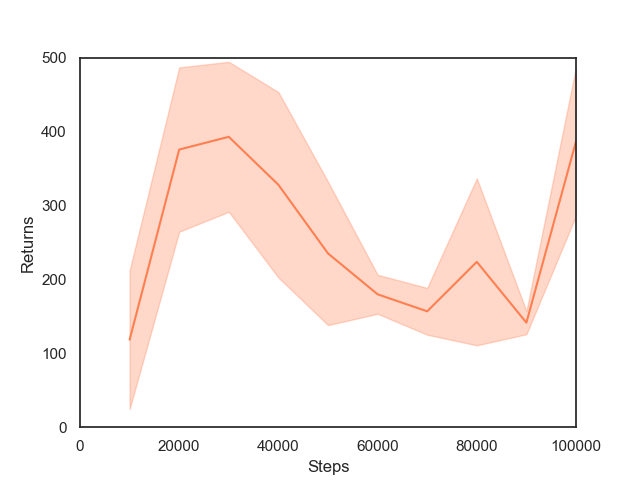
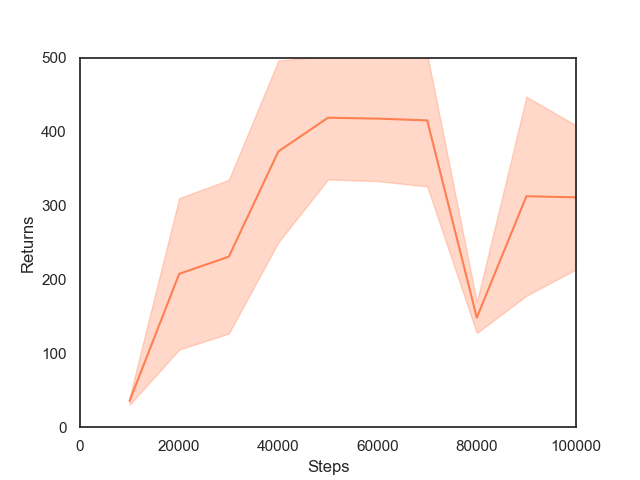
Incorporate terminal signal into AIRL

Changed region(s): [[0.1875, 0.125, 0.9062, 0.8438]]

diff --git a/training.py b/training.py
@@ -77,8 +77,8 @@ def adversarial_imitation_update(algorithm, agent, discriminator, expert_traject
 
   # Iterate over mininum of expert and policy data
   for expert_transition, policy_transition in zip(expert_dataloader, policy_dataloader):
-    expert_state, expert_action, expert_next_state = expert_transition['states'], expert_transition['actions'], expert_transition['next_states']
-    policy_state, policy_action, policy_next_state = policy_transition['states'], policy_transition['actions'], policy_transition['next_states']
+    expert_state, expert_action, expert_next_state, expert_terminal = expert_transition['states'], expert_transition['actions'], expert_transition['next_states'], expert_transition['terminals']
+    policy_state, policy_action, policy_next_state, policy_terminal = policy_transition['states'], policy_transition['actions'], policy_transition['next_states'], policy_transition['terminals']
 
     if algorithm == 'GAIL':
       D_expert = discriminator(expert_state, expert_action)
@@ -87,8 +87,8 @@ def adversarial_imitation_update(algorithm, agent, discriminator, expert_traject
       with torch.no_grad():
         expert_data_policy = agent.log_prob(expert_state, expert_action).exp()
         policy_data_policy = agent.log_prob(policy_state, policy_action).exp()
-      D_expert = discriminator(expert_state, expert_action, expert_next_state, expert_data_policy)
-      D_policy = discriminator(policy_state, expert_action, policy_next_state, policy_data_policy)
+      D_expert = discriminator(expert_state, expert_action, expert_next_state, expert_data_policy, expert_terminal)
+      D_policy = discriminator(policy_state, expert_action, policy_next_state, policy_data_policy, policy_terminal)
  
     # Binary logistic regression
     discriminator_optimiser.zero_grad()

diff --git a/main.py b/main.py
@@ -104,7 +104,7 @@ for step in pbar:
           # Predict rewards
           with torch.no_grad():
             if args.imitation == 'AIRL':
-              policy_trajectories['rewards'] = discriminator.predict_reward(policy_trajectories['states'], policy_trajectories['actions'], torch.cat([policy_trajectories['states'][1:], next_state]), policy_trajectories['log_prob_actions'].exp())
+              policy_trajectories['rewards'] = discriminator.predict_reward(policy_trajectories['states'], policy_trajectories['actions'], torch.cat([policy_trajectories['states'][1:], next_state]), policy_trajectories['log_prob_actions'].exp(), policy_trajectories['terminals'])
             elif args.imitation == 'GAIL':
               policy_trajectories['rewards'] = discriminator.predict_reward(policy_trajectories['states'], policy_trajectories['actions'])
             elif args.imitation == 'GMMIL':

diff --git a/models.py b/models.py
@@ -100,11 +100,11 @@ class AIRLDiscriminator(nn.Module):
   def value(self, state):
     return self.h(state).squeeze(dim=1)
 
-  def forward(self, state, action, next_state, policy):
-    f = self.reward(state, action) + self.discount * self.value(next_state) - self.value(state)  # Note: Does not need to take terminal into account
+  def forward(self, state, action, next_state, policy, terminal):
+    f = self.reward(state, action) + (1 - terminal) * (self.discount * self.value(next_state) - self.value(state))
     f_exp = f.exp()
     return f_exp / (f_exp + policy)
 
-  def predict_reward(self, state, action, next_state, policy):
-    D = self.forward(state, action, next_state, policy)
+  def predict_reward(self, state, action, next_state, policy, terminal):
+    D = self.forward(state, action, next_state, policy, terminal)
     return torch.log(D) - torch.log1p(-D)
